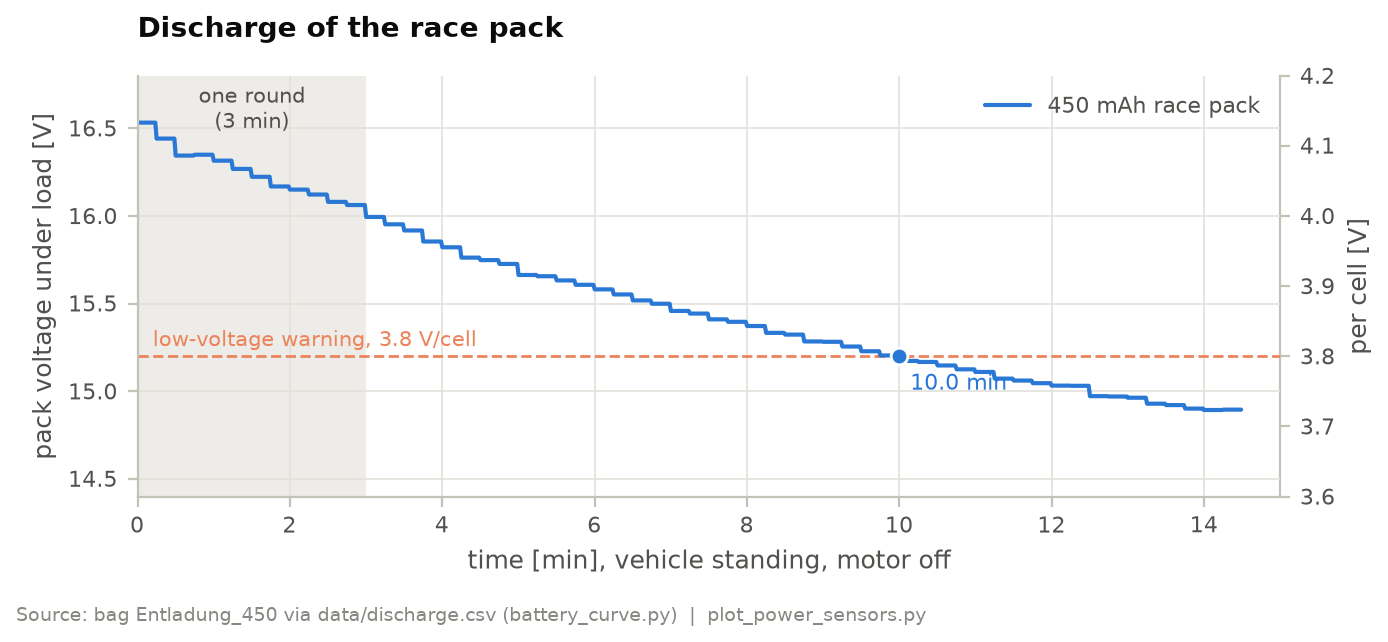
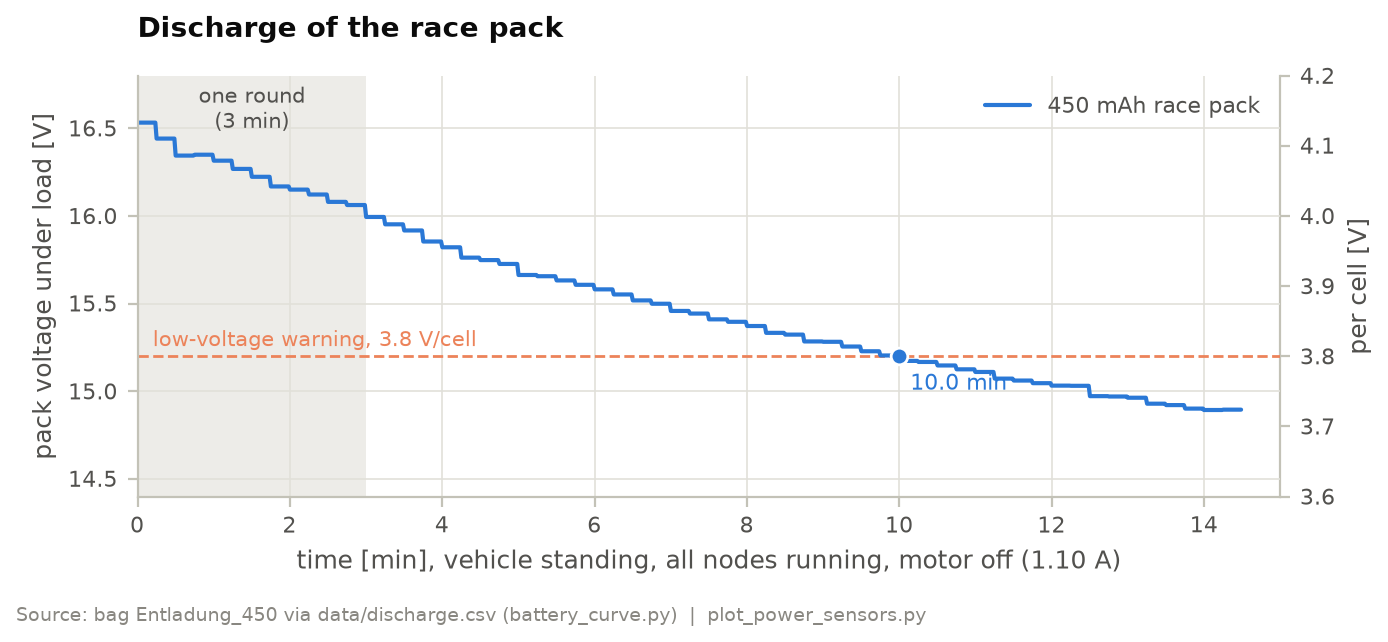
Replace the estimated pack runtimes with the measured discharge
The 22 and 50 minutes were estimates. The race pack reaches the
3.8 V/cell warning after 10 minutes with the full system running, which
the power budget turns into the charge drawn.

Changed region(s): [[0.2169, 0.8411, 0.8055, 0.9034]]

diff --git a/docs/analysis/plot_power_sensors.py b/docs/analysis/plot_power_sensors.py
@@ -247,7 +247,7 @@ def discharge(out_dir):
         t_end = max(t_end, t[-1])
     ax.set_xlim(0, np.ceil(t_end + 0.5))
     ax.set_ylim(14.4, 16.8)
-    ax.set_xlabel('time [min], vehicle standing, motor off')
+    ax.set_xlabel('time [min], vehicle standing, all nodes running, motor off (1.10 A)')
     ax.set_ylabel('pack voltage under load [V]')
     cell = ax.secondary_yaxis('right', functions=(lambda x: x / 4, lambda x: x * 4))
     cell.set_ylabel('per cell [V]')

diff --git a/docs/journal/03-power-sensors.md b/docs/journal/03-power-sensors.md
@@ -23,7 +23,7 @@ rubric for criterion 2:
 | The rubric asks for | Section | Key evidence |
 | --- | --- | --- |
 | Power architecture, planned distribution | [Dual-input power path](#dual-input-power-path), [Regulation](#regulation) | two hot-swappable inputs, two regulated rails, Jetson deliberately unswitched |
-| Power budget, current draw | [Power budget](#power-budget) | 1.10–1.30 A measured per state; Jetson 76 %; matches the pack runtimes within 7 % |
+| Power budget, current draw | [Power budget](#power-budget) | 1.10–1.30 A measured per state; Jetson 76 %; consistent with the recorded discharge curve |
 | Wiring diagram | [Wiring](#wiring) | vehicle-level wiring, schematic, all four copper layers, pin map |
 | Sensor selection and trade-offs | [Sensor set](#sensor-set), [LiDAR: selection](#lidar-selection) | three LiDARs compared; YOLO replaced for latency; why no ultrasonic or line sensor |
 | Placement justified with the field geometry | [LiDAR: placement](#lidar-placement), [Camera](#camera) | 55 mm scan plane against 100 mm walls, ±0.9° tilt tolerance; scan plane in the camera's view from 0.18 m |
@@ -57,24 +57,22 @@ The board carries four jobs:
 
 ### Energy source
 
-<!-- TODO reconcile: the discharge curve reaches the 3.8 V/cell warning after 10 min; was ≈22 min observed while the divider read 18 % high (warning effectively at 3.21 V/cell)? -->
-
 | | Race pack | Endurance pack |
 | --- | --- | --- |
 | Type | Ovonic 4S LiPo | Ovonic 4S LiPo |
 | Capacity | 450 mAh | 1150 mAh |
 | Discharge rating | 60 C (≈27 A) | 60 C (≈69 A) |
 | Stored energy | 6.7 Wh | 17.0 Wh |
-| Observed runtime | ≈22 min | ≈50 min |
-| Implied average current | **≈1.2 A** | **≈1.4 A** |
+| Time to the 3.8 V/cell warning, measured | **10.0 min** | – |
 
-The two runtimes were measured independently and agree on an average system draw
-of roughly **1.2–1.4 A, i.e. 18–20 W**. This is the figure that
-[Power budget](#power-budget) has to reproduce component by component.
+<!-- TODO: endurance pack time to warning from Entladung_1150 -->
+
+The system draws **1.10 A standing and 1.30 A at full speed, 16–19 W**, measured
+state by state in [Power budget](#power-budget).
 
 The smaller pack is used for competition runs, where its lower mass matters and
-22 minutes is far beyond a 3-minute round. The larger pack is used for
-development and testing, where runtime dominates.
+its 10 minutes to the warning cover a 3-minute round with a large reserve. The
+larger pack is used for development and testing, where runtime dominates.
 
 The 60 C rating is not required by the average current — it is required so that
 the pack voltage does not sag during motor acceleration, which would otherwise
@@ -83,15 +81,19 @@ propagate into the 5 V rail and into the low-voltage warning.
 #### Discharge curve
 
 With the battery monitoring repaired (see below), the race pack was recorded from
-full charge with the vehicle standing and the motor off.
+full charge with the vehicle standing, all nodes running and the LiDAR turning,
+motor off — the *full system idle* state of the power budget, 1.10 A.
 
 ![Pack voltage of the race pack over time, against the low-voltage warning.](../figures/discharge.svg)
 
 Data: bag `Entladung_450` via [`battery_curve.py`](../analysis/battery_curve.py)
-into [`data/discharge.csv`](../data/discharge.csv). The vehicle lost power before
-the recording was stopped, so the bag was recovered with `sqlite3 .recover`; the
-readings at the very start and end show 17.4 V, more than a 4S pack can deliver,
-because a second source was plugged into the other input, and are dropped.
+into [`data/discharge.csv`](../data/discharge.csv). The discharge was ended by hand
+at 3.72 V per cell: under load we do not take a LiPo lower than 3.7 V per cell.
+While switching over to the bench supply afterwards a cable tore off and the
+Jetson lost power before the recorder had closed the bag, so the bag was recovered
+with `sqlite3 .recover`. The readings at the very start and end show 17.4 V, more
+than a 4S pack can deliver: the bench supply on the second input was on. They are
+dropped.
 
 | Time | Pack voltage | Per cell |
 | ---: | ---: | ---: |
@@ -102,7 +104,7 @@ because a second source was plugged into the other input, and are dropped.
 
 A round takes 3 minutes and leaves the pack at 4.0 V per cell, far above the
 warning, which arrives only after 10 minutes. A freshly charged race pack
-therefore covers a round with a large reserve. <!-- TODO confirm: was the whole stack running (≈1.1 A)? why was the recording ended at 14.9 V? -->
+therefore covers a round with a large reserve.
 <!-- TODO: endurance pack (Entladung_1150) into the same figure -->
 
 #### Battery monitoring
@@ -394,19 +396,28 @@ Two consequences follow, and both shaped later decisions:
    non-motor share at ~90 % converter efficiency. This is the figure the eFuse
    current limit was set against (see [Protection](#protection)).
 
-#### Cross-check against observed runtime
+#### Cross-check against the discharge curve
 
-The power budget and the observed pack runtimes were measured independently. They
-agree:
+The [discharge curve](#discharge-curve) was recorded in the *full system idle*
+state, 1.10 A. Combining the two measurements:
 
-| Pack | Capacity | Predicted at 1.15 A | Observed |
-| --- | --- | --- | --- |
-| Race | 450 mAh | 23.5 min | ≈22 min |
-| Endurance | 1150 mAh | 60 min | ≈50 min |
+| Point on the curve | Time | Charge drawn at 1.10 A | Share of 450 mAh |
+| --- | ---: | ---: | ---: |
+| One round | 3.0 min | 55 mAh | 12 % |
+| Warning, 3.8 V/cell | 10.0 min | 183 mAh | 41 % |
+| End of recording, 3.72 V/cell | 14.5 min | 266 mAh | 59 % |
 
-The race pack matches within 7 %. The endurance pack falls short of the prediction
-because a run is ended at the 3.8 V/cell warning rather than at full discharge,
-leaving usable capacity unused.
+Two conclusions follow:
+
+1. **The warning is conservative.** It fires with more than half of the nominal
+   charge still in the pack. That is deliberate: a LiPo that is run deep loses
+   capacity, and the vehicle must not lose its compute during a scored run.
+2. **Driving barely shortens it.** Driving at full speed raises the draw by 18 %,
+   so on the field the warning comes after roughly 10.0 min × 1.10 / 1.30 ≈
+   8.5 minutes — an estimate from the two measurements, not a separate recording.
+
+An earlier version of this journal gave runtimes of ≈22 and ≈50 minutes. Those
+were estimates; the recorded curve replaces them.
 
 ### Motor drive
 

diff --git a/docs/journal/05-systems.md b/docs/journal/05-systems.md
@@ -82,7 +82,7 @@ Most of the software described in chapter 3 is a reaction to one of these rows.
 | The time runs until the robot stands in the bay, the international rules ask for no pause. The German rules differ: a 3 s stop after three laps, the time is taken there, and parking only has to be finished within the 3 minutes | no halt before parking; approach under closed-loop control instead of a stop and a blind move |
 | Vehicle size: at most 300 × 200 mm and 300 mm high (general rules 9.17) | not the binding limit: Napoleon measures 182 × 111 × 84 mm with its body. What fixed the size was the Jetson: the developer kit set the size of the national-final robot (170 × 140 mm), the module on the smaller Seeed A603 carrier allowed the new chassis ([chapter 1](02-mobility.md)) |
 | Vehicle mass: at most 1.5 kg (general rules 11.2) | 586 g without body (national final: 803 g); the low and light vehicle is limited by traction, not by the motor, and slides before it tips ([chapter 1](02-mobility.md#speed-and-acceleration)) |
-| Energy: one 4S pack of 450 mAh in races; the Jetson draws 76 % of the idle current | ≈22 min per pack, almost independent of the driving speed; the 5 V rail carries ≈0.7 A, the figure the eFuse limit is set against ([chapter 2](03-power-sensors.md#power-budget)) |
+| Energy: one 4S pack of 450 mAh in races; the Jetson draws 76 % of the idle current | 10 min to the low-voltage warning on the race pack, almost independent of the driving speed; the 5 V rail carries ≈0.7 A, the figure the eFuse limit is set against ([chapter 2](03-power-sensors.md#power-budget)) |
 | International instead of German rules: up to two pillars per straight instead of exactly one; parking after the three laps is part of the obstacle challenge and must be parallel, otherwise the points of the round are halved (German rules: optional extra task, no parallel requirement) | pillar map with two seats per row and the 35 % rule; path planning around two pillars per straight; parking with a measured parallel error (axle difference) instead of only ending between the walls |
 | Points before time: a run that fails costs more than a slow one | scan halts in lap 1 accepted although they cost time |
 | Colour is only reliable at standstill (frame rate 15.5 → 2.5 Hz, coloured points 38 → 2 % while driving) | scan halts in lap 1 only; map frozen after lap 1 |
